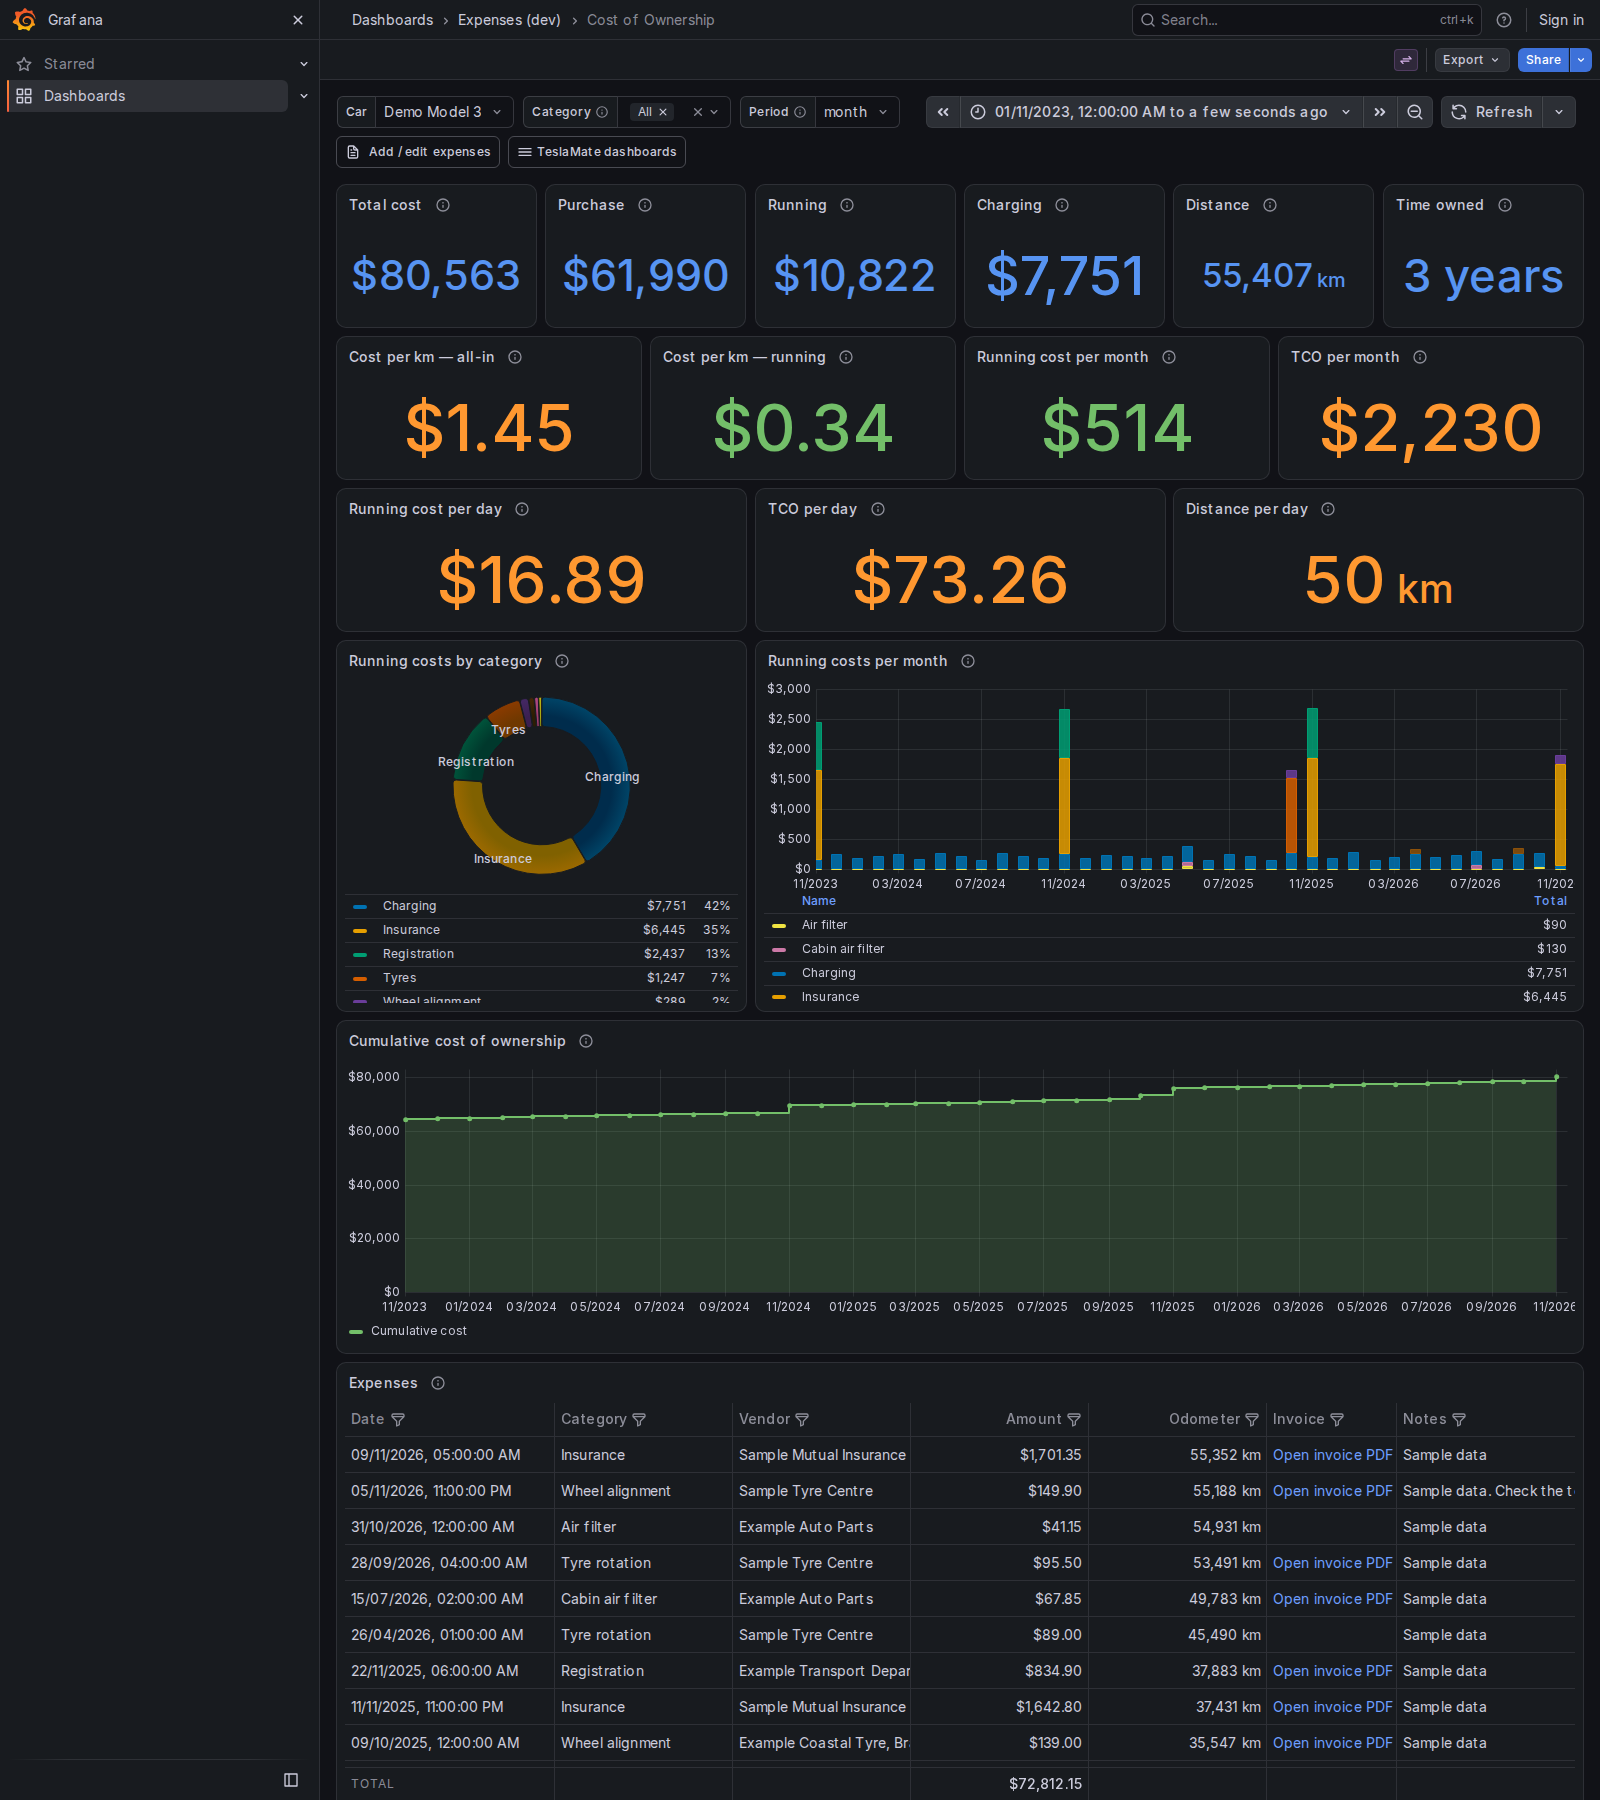
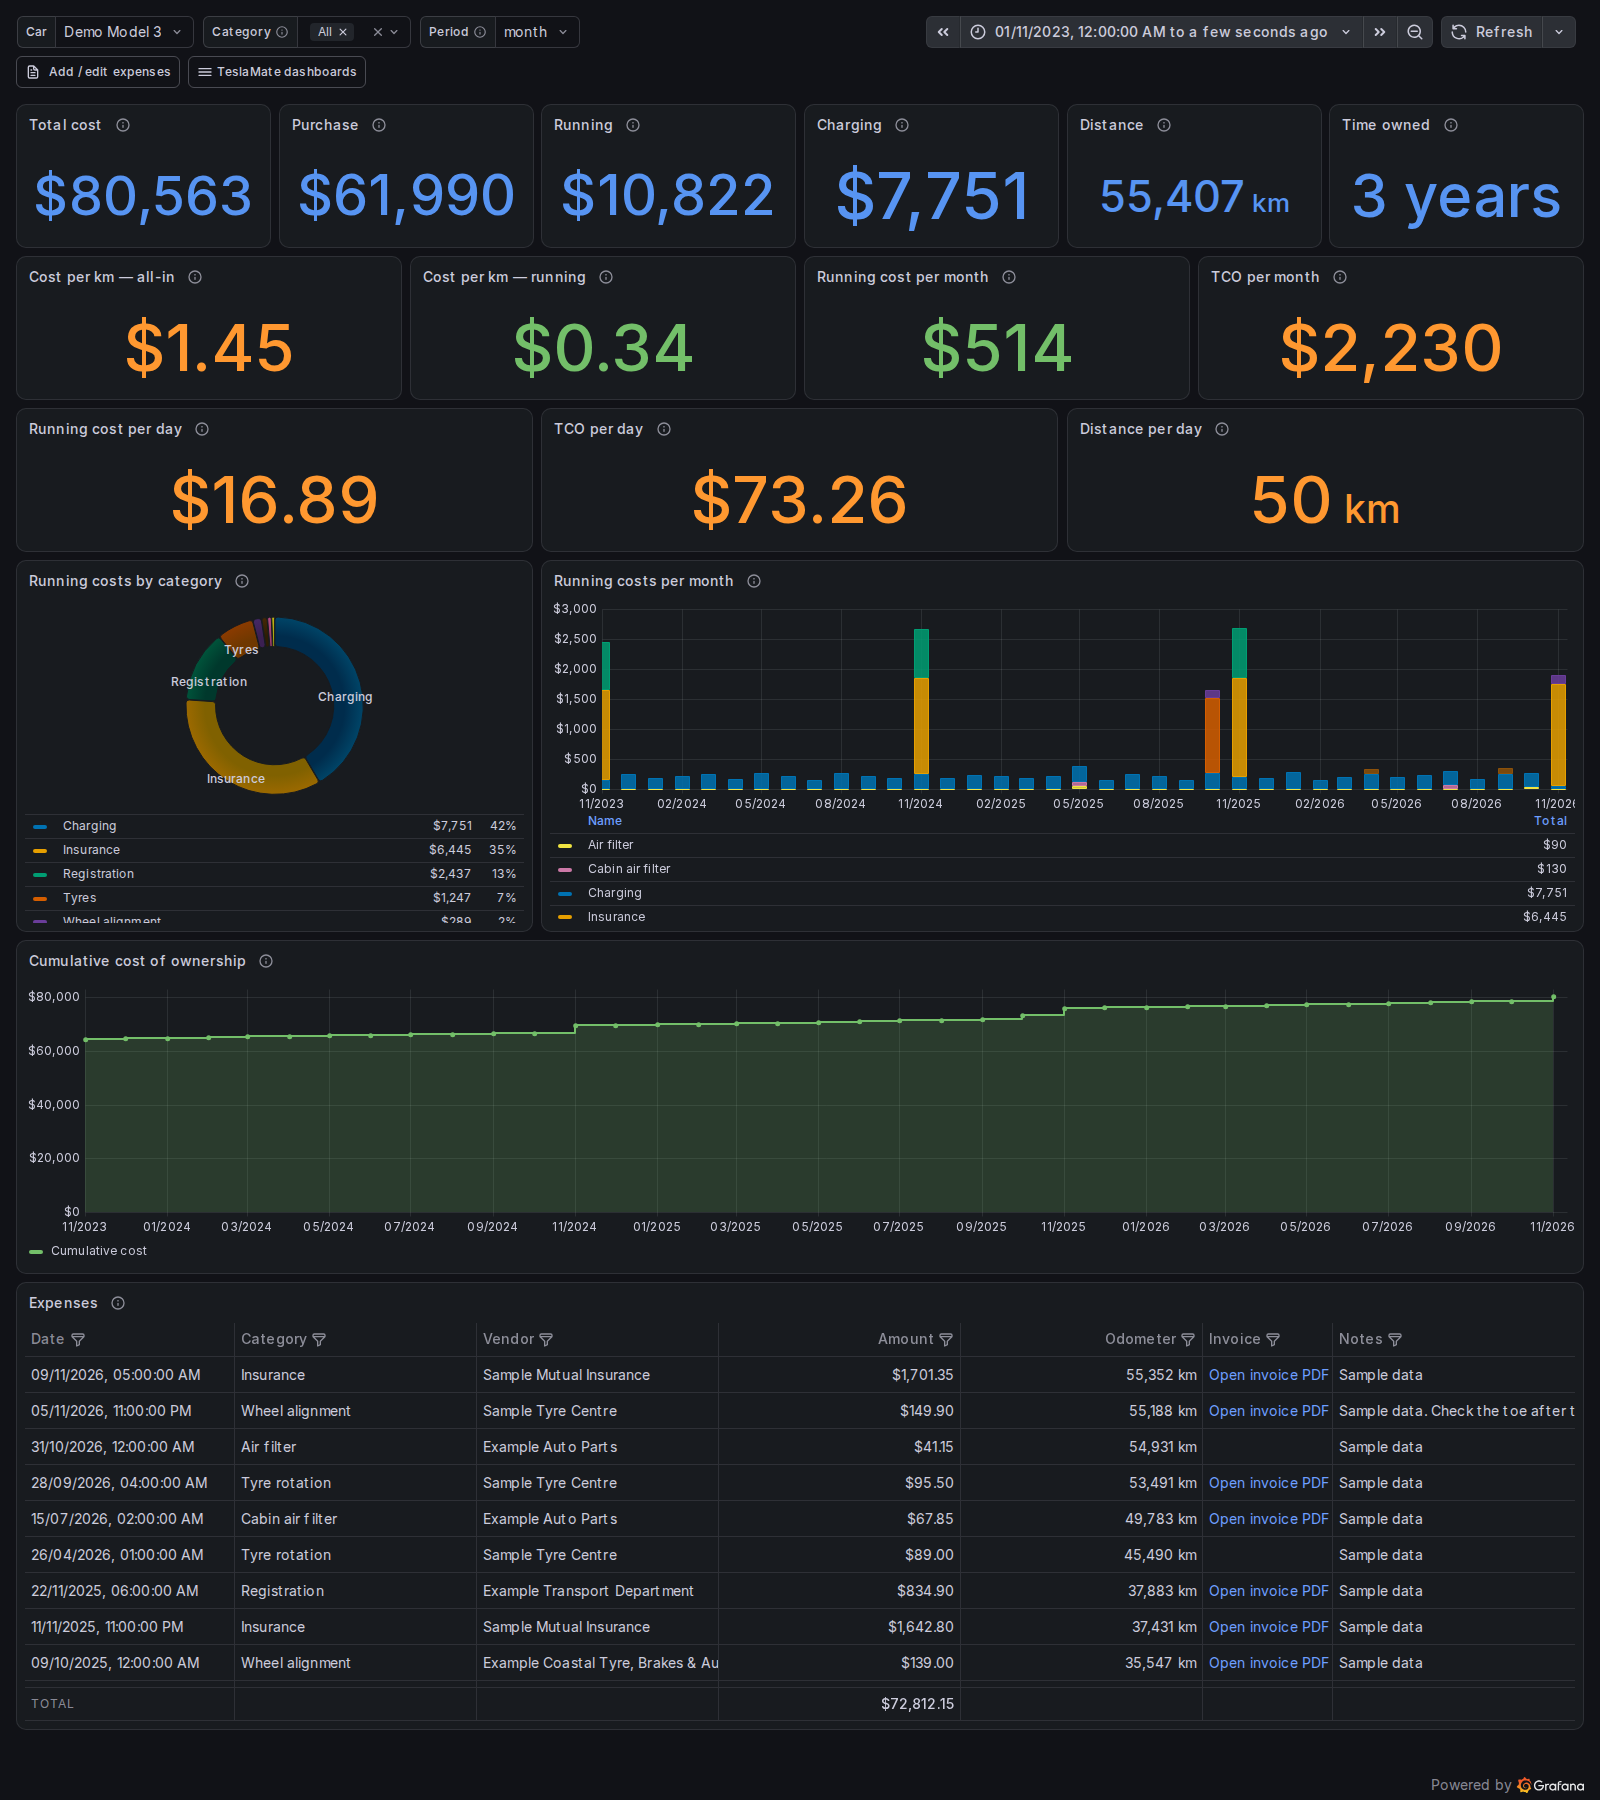
Dashboard screenshot: hide Grafana's side menu (kiosk), keep the controls

diff --git a/tests/browser/screenshots.py b/tests/browser/screenshots.py
@@ -45,7 +45,9 @@ def main():
         big = browser.new_context(viewport={"width": 1600, "height": 1800}, device_scale_factor=1,
                                   color_scheme="light", locale="en-AU")
         dash = big.new_page()
-        dash.goto(GRAFANA + "d/tm-expenses-tco/cost-of-ownership")
+        # Kiosk drops Grafana's side menu and breadcrumb; the boxes and time range stay.
+        dash.goto(GRAFANA + "d/tm-expenses-tco/cost-of-ownership"
+                  "?kiosk&_dash.hideTimePicker=false&_dash.hideVariables=false&_dash.hideLinks=false")
         expect(dash.get_by_text("Total cost", exact=True)).to_be_visible(timeout=30000)
         dash.wait_for_load_state("networkidle")
         dash.wait_for_timeout(3000)
